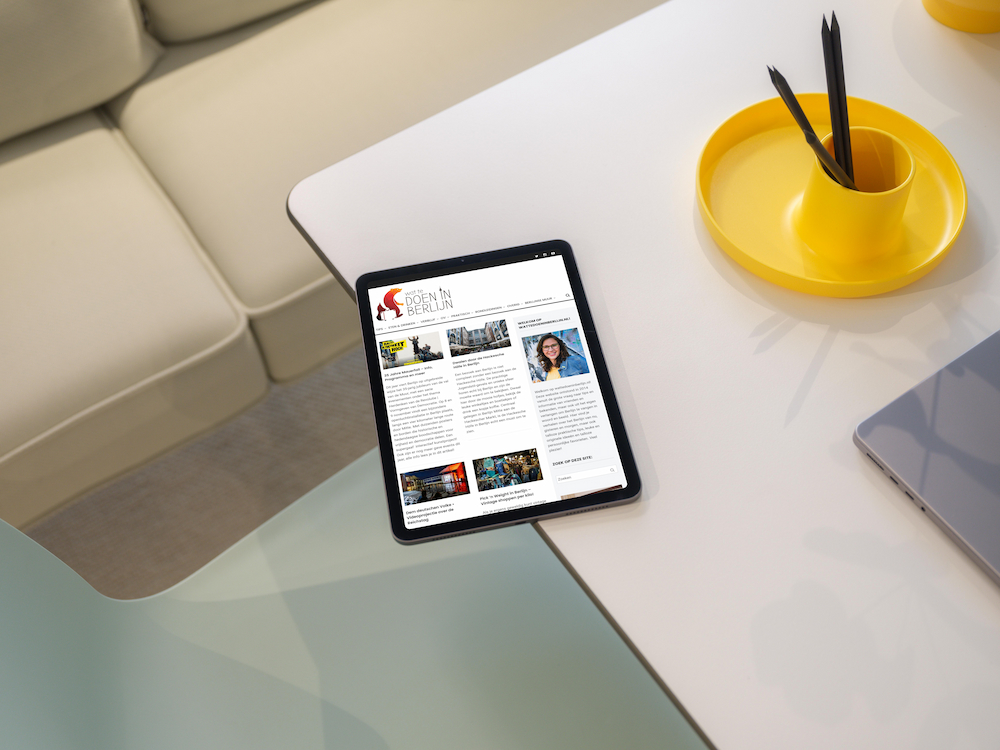
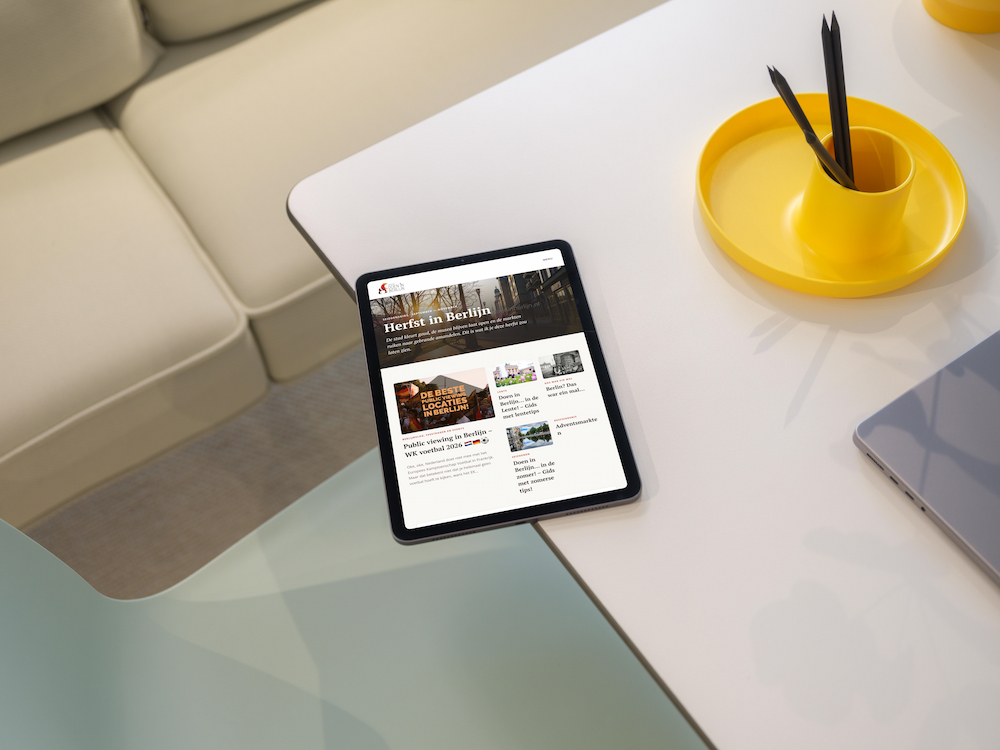
docs: re-render the demo set against the rebuilt WTDIB site
wtdib.cdit-works.de replaces the old wattedoeninberlijn.nl across all five
renders, including the uploaded-poster demo.

Changed region(s): [[0.372, 0.3067, 0.62, 0.7053]]

diff --git a/README.md b/README.md
@@ -3,7 +3,7 @@
 MCP server for [Mockuuups Studio](https://mockuuups.studio/) — search ~5,300 device
 and print mockups, then render a screenshot or your own image into them.
 
-One design — the [WTDIB](https://www.wattedoeninberlijn.nl) Berlin city guide —
+One design — the [WTDIB](https://wtdib.cdit-works.de/) Berlin city guide —
 rendered into four mockups from a single photoshoot, so the room stays put while
 the device changes. Two tool calls, no image hosting anywhere.
 
@@ -60,7 +60,7 @@ devices is to search one, then filter by its tag:
 search_mockups(query="ipad", tag="update-august-2024-meeting-room")
 create_mockups(
     mockup_ids=["Zkn1GMTfiAFX5ZOn", "Zkn2DsTfiAFX5ZPD", "Zkn15MTfiAFX5ZO_"],
-    screenshot_url="https://www.wattedoeninberlijn.nl",
+    screenshot_url="https://wtdib.cdit-works.de/",
 )
 ```
 
